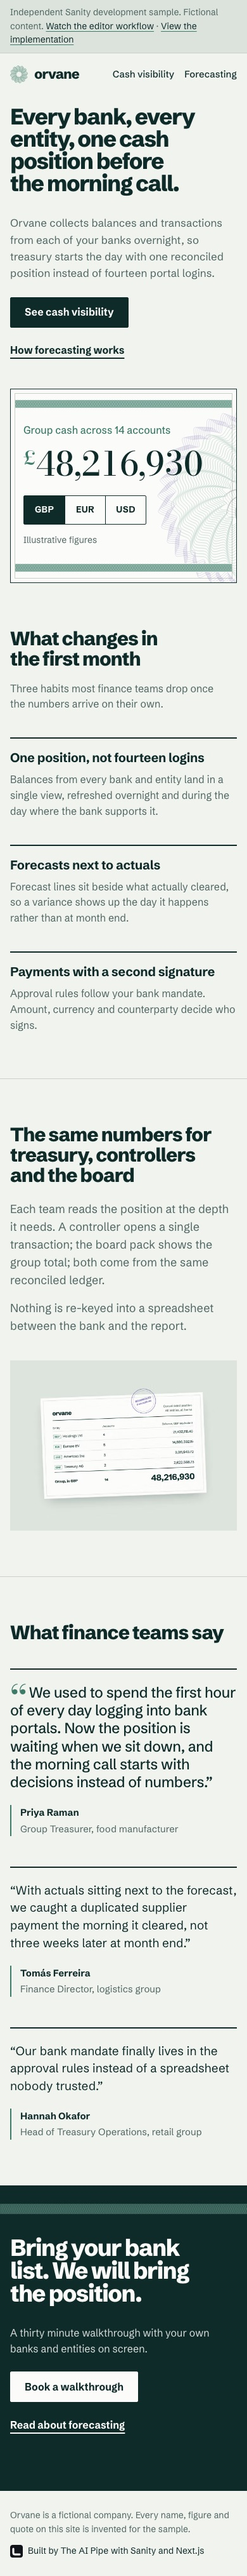
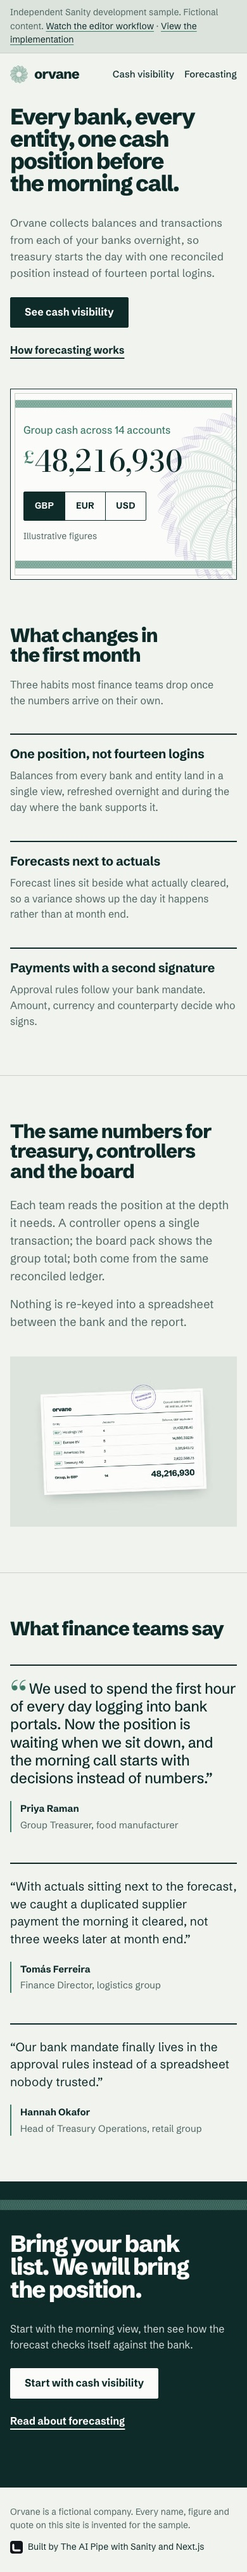
release_checks: Studio publish checks on API-written drafts with a valid control; refreshed captures

diff --git a/scripts/release_checks.py b/scripts/release_checks.py
@@ -3,7 +3,9 @@ Release checks on the deployed site and the hosted Studio.
 1. Every page works signed out: status 200, no failed requests, no console errors.
 2. Phone width: no horizontal overflow on any page.
 3. Interactions: currency switch, walkthrough dialog and its video, navigation links.
-4. Invalid content cannot be published from the Studio: a second hero, and a testimonial without attribution.
+4. Invalid content cannot be published from the Studio: a second hero added in the form, then drafts written through the API
+   (CTA without a main button, statement card missing an amount, testimonial without attribution or with a blank name),
+   against a valid control draft.
 Draft/published separation and publish-without-redeploy are covered by r9_presentation_check.py.
 Usage: SITE_URL=... STUDIO_URL=... python release_checks.py <out_dir>
 """
@@ -75,27 +77,20 @@ with sync_playwright() as p:
     pg.screenshot(path=f'{out}/blocked_second_hero.png')
     mutate([{'delete': {'id': 'drafts.solution-cash-visibility'}}])
 
-    pg.goto(f'{STUDIO}/intent/create/template=testimonial;type=testimonial;id=release-check-testimonial/', wait_until='domcontentloaded')
-    pg.locator('textarea').first.wait_for(timeout=60000); time.sleep(2)
-    pg.locator('textarea').first.fill('A quote with nobody attached to it.'); time.sleep(4)
-    R['testimonial_without_attribution_publish_disabled'] = pg.locator('[data-testid="action-publish"]').is_disabled()
-    R['attribution_message_shown'] = pg.get_by_text('Add the name of the person quoted').count() > 0
-    pg.screenshot(path=f'{out}/blocked_testimonial.png')
-    mutate([{'delete': {'id': 'drafts.release-check-testimonial'}}])
-
     # Object-level rules (CTA without a main button, statement card missing an amount) are checked in the Studio itself:
     # outside the Studio, the CLI downgrades object-level custom rules to warnings when it adds its unknown-fields check.
     cases = {
         'cta_without_main_button': [{'_key': 'a', '_type': 'hero', 'variant': 'plain', 'heading': 'Check'}, {'_key': 'b', '_type': 'cta', 'heading': 'No button', 'tone': 'ink'}],
         'statement_missing_amount': [{'_key': 'a', '_type': 'hero', 'variant': 'statement', 'heading': 'Check', 'figure': {'gbp': 5}}],
-        'blank_testimonial_name': None,
+        'testimonial_without_attribution': {'quote': 'A quote with nobody attached to it.'},
+        'blank_testimonial_name': {'quote': 'Words.', 'name': '   '},
         # Control: a valid draft must be publishable, so a disabled button above means validation, not something else.
         'valid_control': [{'_key': 'a', '_type': 'hero', 'variant': 'plain', 'heading': 'Check'}],
     }
     for name, sections in cases.items():
         doc_id = f'release-check-{name.replace("_", "-")}'
-        if sections is None:
-            mutate([{'createOrReplace': {'_id': f'drafts.{doc_id}', '_type': 'testimonial', 'quote': 'Words.', 'name': '   '}}])
+        if isinstance(sections, dict):
+            mutate([{'createOrReplace': {'_id': f'drafts.{doc_id}', '_type': 'testimonial', **sections}}])
             url = f'{STUDIO}/structure/testimonial;{doc_id}'
         else:
             mutate([{'createOrReplace': {'_id': f'drafts.{doc_id}', '_type': 'solution', 'title': 'Check', 'slug': {'_type': 'slug', 'current': doc_id}, 'sections': sections}}])
